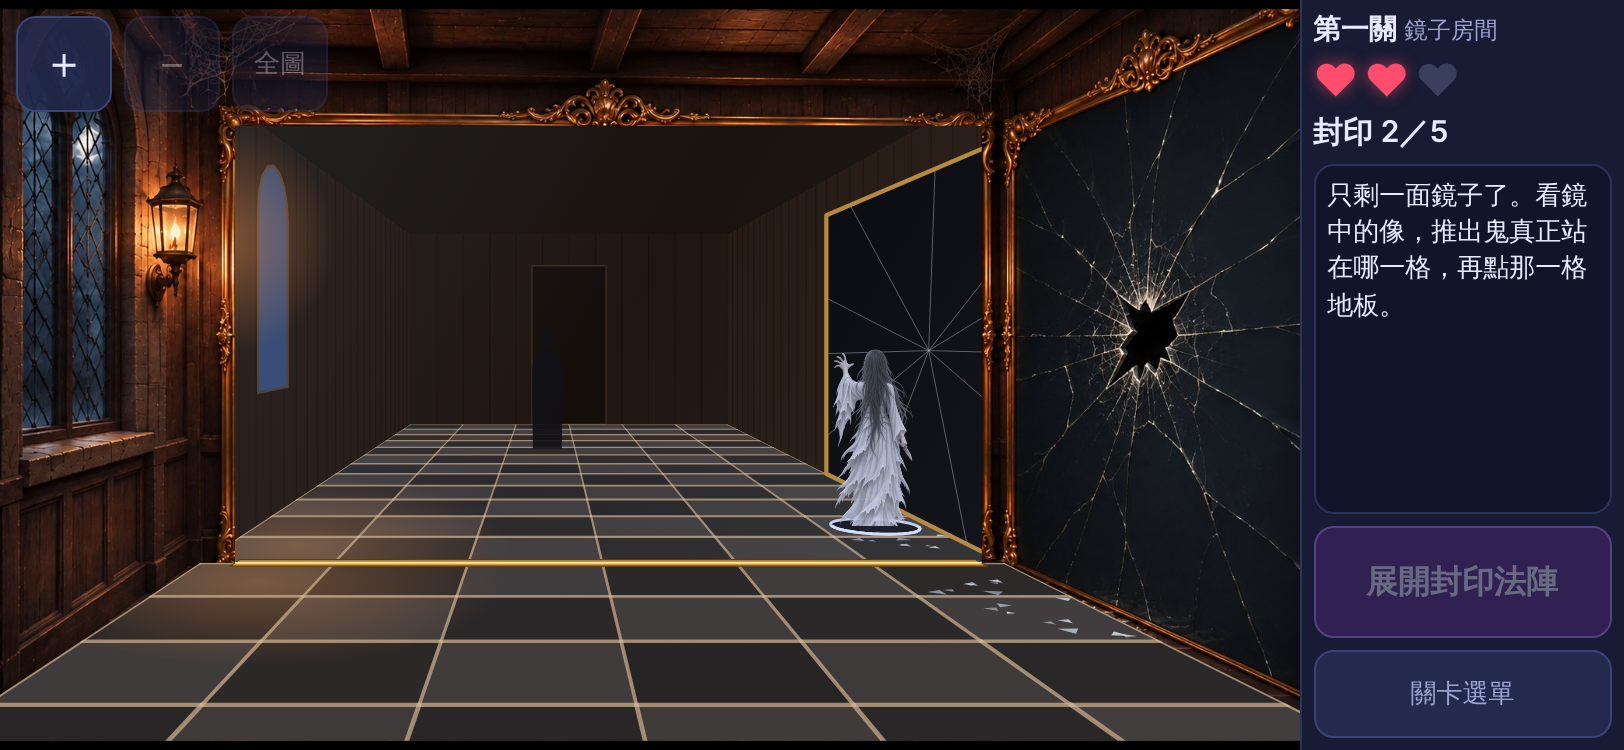
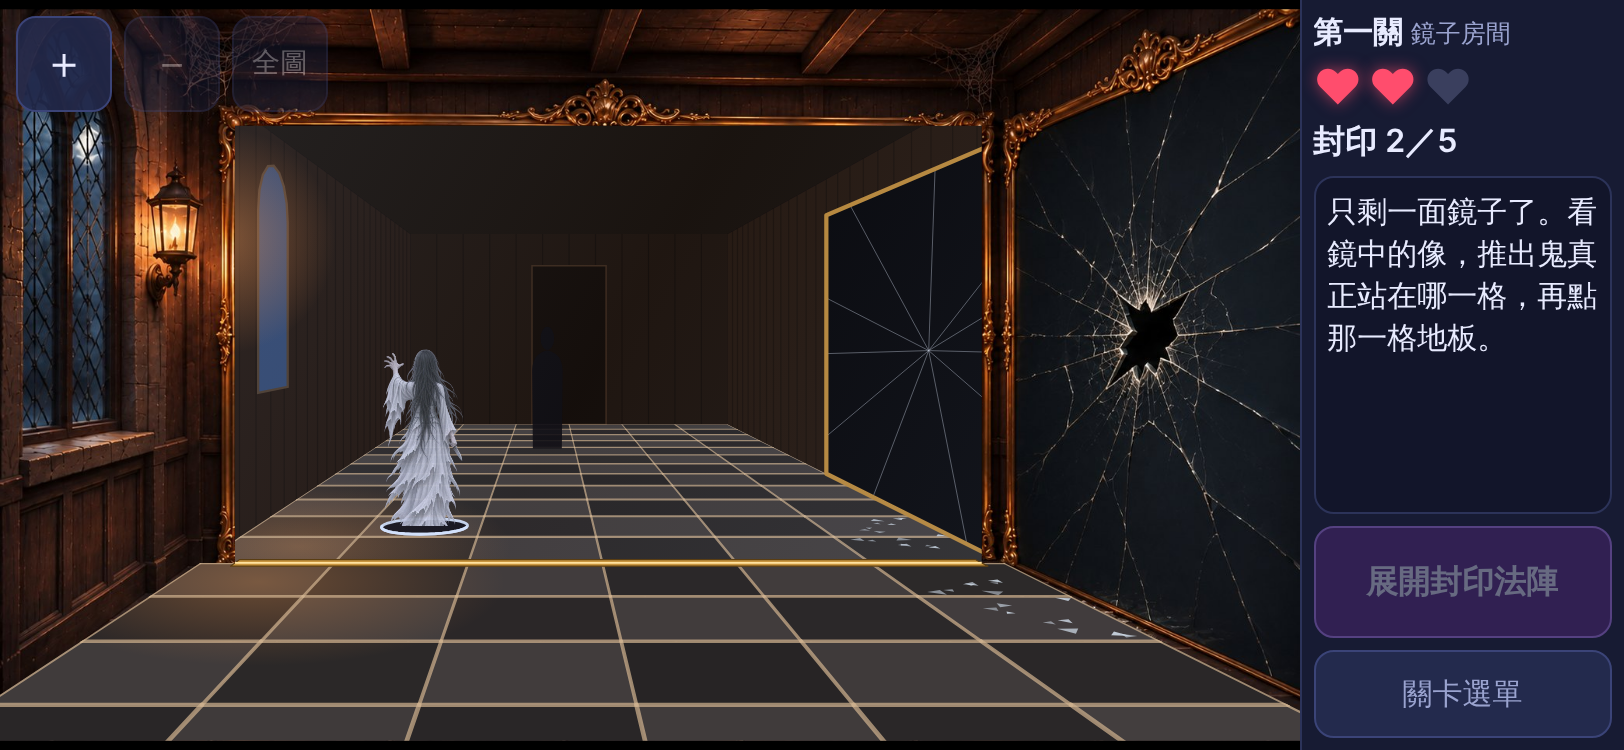
feat: larger text on small screens for the plane-mirror level
Matches the convex/concave standard: 15px status text, 15-16px buttons,
canvas labels at least 12px. Free-mode tools move onto the stage so the
status text always fits.

Claude-Session: https://claude.ai/code/session_01HvGmyTGiFBo42Y4CfnbQZX

diff --git a/prototype/plane-mirror/index.html b/prototype/plane-mirror/index.html
@@ -21,34 +21,40 @@
   #view { position:absolute; inset:0; width:100%; height:100%; display:block; touch-action:none; }
   #side { display:flex; flex-direction:column; gap:8px; min-height:0; padding:8px 8px calc(8px + env(safe-area-inset-bottom));
     padding-right:calc(8px + env(safe-area-inset-right)); background:var(--panel); border-left:1px solid var(--line); }
-  #side h1 { margin:0; font-size:14px; font-weight:600; white-space:nowrap; overflow:hidden; text-overflow:ellipsis; }
+  #side h1 { margin:0; font-size:15px; font-weight:600; white-space:nowrap; overflow:hidden; text-overflow:ellipsis; }
   #side h1 small { color:var(--dim); font-weight:400; }
-  #hud { display:flex; align-items:center; flex-wrap:wrap; gap:4px 10px; font-size:15px; font-weight:600; }
+  #hud { display:flex; align-items:center; flex-wrap:wrap; gap:4px 10px; font-size:16px; font-weight:600; }
   #hearts { display:inline-flex; gap:3px; font-size:26px; line-height:1; color:#ff4d6d; text-shadow:0 0 8px rgba(255,77,109,.6); }
   #hearts .lost { color:#3a3f5e; text-shadow:none; }
   #hud.hit #hearts { animation:hudHit .6s ease-out; }
   @keyframes hudHit { 0%,100% { transform:translateX(0); } 20% { transform:translateX(-5px); } 40% { transform:translateX(5px); } 60% { transform:translateX(-3px); } 80% { transform:translateX(3px); } }
-  #status { flex:1 1 auto; min-height:0; overflow:hidden; padding:8px; font-size:14px; line-height:1.45; background:#12152a; border:1px solid var(--line); border-radius:10px; }
-  select, button, a.btn { font:inherit; color:var(--text); background:#232a4d; border:1px solid #3b4478; border-radius:10px; min-height:48px; padding:4px 10px; font-size:15px; }
+  #status { flex:1 1 auto; min-height:0; overflow:hidden; padding:8px; font-size:15px; line-height:1.4; background:#12152a; border:1px solid var(--line); border-radius:10px; }
+  select, button, a.btn { font:inherit; color:var(--text); background:#232a4d; border:1px solid #3b4478; border-radius:10px; min-height:48px; padding:4px 10px; font-size:16px; }
   button { cursor:pointer; user-select:none; -webkit-user-select:none; touch-action:manipulation; }
   #side button { width:100%; }
   button:active { background:#34407a; }
   button:disabled { opacity:.38; cursor:default; }
   button.on { background:#4a3f12; border-color:var(--accent); color:var(--accent); }
-  button.primary { background:#5b2a86; border-color:#b980ff; font-weight:600; font-size:16px; min-height:56px; }
-  #freeTools { display:flex; flex-direction:column; gap:6px; }
-  #freeTools select { width:100%; min-height:40px; font-size:13px; }
-  #freeTools button { min-height:40px; font-size:13px; }
-  a.btn { display:flex; align-items:center; justify-content:center; min-height:44px; font-size:13px; color:var(--dim); text-decoration:none; }
+  button.primary { background:#5b2a86; border-color:#b980ff; font-weight:600; font-size:17px; min-height:56px; }
+  /* 自由練習（開發用）的工具放在房間畫面的右上角，不佔右側直欄，說明文字才放得下 */
+  #freeTools { position:absolute; right:8px; top:8px; display:flex; gap:6px; }
+  #freeTools select { min-height:44px; max-width:150px; font-size:15px; background:rgba(35,42,77,.92); }
+  #freeTools button { min-height:44px; min-width:64px; font-size:15px; background:rgba(35,42,77,.92); }
+  #freeTools button.on { background:#4a3f12; }
+  a.btn { display:flex; align-items:center; justify-content:center; min-height:44px; font-size:15px; color:var(--dim); text-decoration:none; }
   #zoomBox { position:absolute; left:8px; top:8px; display:flex; gap:6px; }
   #zoomBox button { width:48px; height:48px; min-height:48px; padding:0; font-size:22px; background:rgba(35,42,77,.88); }
-  #zoomBox #zoomFit { font-size:13px; }
-  #debugPanel { position:absolute; left:6px; top:62px; max-width:min(92%, 360px); font:11px/1.45 ui-monospace, Menlo, Consolas, monospace; background:rgba(0,0,0,.72); color:#9dffb0; border:1px solid #2f7a45; border-radius:6px; padding:6px 8px; pointer-events:none; white-space:pre-wrap; }
+  #zoomBox #zoomFit { font-size:14px; }
+  #debugPanel { position:absolute; left:6px; top:62px; max-width:min(92%, 360px); font:12px/1.45 ui-monospace, Menlo, Consolas, monospace; background:rgba(0,0,0,.72); color:#9dffb0; border:1px solid #2f7a45; border-radius:6px; padding:6px 8px; pointer-events:none; white-space:pre-wrap; }
   @media (max-height: 480px) {
     #side { gap:6px; padding:6px 6px calc(6px + env(safe-area-inset-bottom)); }
-    #status { font-size:13px; padding:6px; line-height:1.4; }
-    #hearts { font-size:22px; }
-    a.btn { min-height:44px; }
+    /* 字級對齊凸、凹透鏡：說明文字在橫向手機上也是 15 px，不縮小；按鈕 15 px */
+    #status { padding:6px; }
+    #hearts { font-size:24px; }
+    select, button, a.btn { font-size:15px; }
+    button.primary { font-size:16px; }
+    #freeTools select, #freeTools button { font-size:14px; }
+    #freeTools select { max-width:118px; }
   }
   /* 直向只是開發備援（?portrait=1）：控制欄放到下面 */
   @media (orientation: portrait) {
@@ -68,6 +74,14 @@
       <button id="zoomOut" type="button" aria-label="縮小">－</button>
       <button id="zoomFit" type="button" aria-label="顯示全圖">全圖</button>
     </div>
+    <div id="freeTools" hidden>
+      <select id="phaseSel" aria-label="鏡子數量">
+        <option value="1">兩面鏡</option>
+        <option value="2">一面鏡（右邊打碎）</option>
+      </select>
+      <select id="cellSel" aria-label="鬼的位置"></select>
+      <button id="debugBtn" type="button" aria-pressed="false">Debug</button>
+    </div>
     <div id="debugPanel" hidden></div>
   </main>
   <aside id="side">
@@ -77,14 +91,6 @@
       <span id="sealCount"></span>
     </div>
     <div id="status" role="status" aria-live="polite"></div>
-    <div id="freeTools" hidden>
-      <select id="phaseSel" aria-label="鏡子數量">
-        <option value="1">兩面鏡</option>
-        <option value="2">一面鏡（右邊打碎）</option>
-      </select>
-      <select id="cellSel" aria-label="鬼的位置"></select>
-      <button id="debugBtn" type="button" aria-pressed="false">Debug</button>
-    </div>
     <button id="castBtn" type="button" class="primary" disabled>展開封印法陣</button>
     <button id="nextBtn" type="button" class="primary" hidden>繼續 ➜</button>
     <a id="menuLink" class="btn" href="../index.html">關卡選單</a>

diff --git a/tests/e2e-plane-mirror.js b/tests/e2e-plane-mirror.js
@@ -115,6 +115,26 @@ async function open(profile, browser, query) {
   return { context, page, errors, tapAt, press, info, pixels, cellPt, tapCell, otherCell, shot, catchGhost, castWrong, waitIdle };
 }
 
+
+// 字級（對齊凸、凹透鏡的標準）與「每一句說明都完整顯示」
+async function textChecks(page, label) {
+  const r = await page.evaluate(() => {
+    const m = window.__protoMirror, st = document.getElementById('status'), fs = (sel) => parseFloat(getComputedStyle(document.querySelector(sel)).fontSize);
+    const keep = st.textContent;
+    const samples = Object.keys(m.messages).map((k) => m.messages[k]).concat([
+      '抓到了！（封印 4／5）可是牠正在掙脫法陣……', '又抓到了！（封印 2／5）鬼氣得渾身發抖……', '第 5 次抓到牠了！鬼再也待不住了……', '抓到了！鬼就站在這一格。']);
+    const cut = [];
+    samples.forEach((t) => { st.textContent = t; if (st.scrollHeight > st.clientHeight + 1 || st.scrollWidth > st.clientWidth + 1) cut.push(t); });
+    st.textContent = keep;
+    return { status: fs('#status'), cast: fs('#castBtn'), next: fs('#nextBtn'), menu: fs('#menuLink'), hud: fs('#hud'), title: fs('#title'), zoomFit: fs('#zoomFit'),
+      cut: cut, n: samples.length, box: [st.clientWidth, st.clientHeight] };
+  });
+  ok(r.status >= 15, label + '說明文字 ≥ 15 px', r.status + ' px');
+  ok(r.cast >= 15 && r.next >= 15 && r.menu >= 15, label + '按鈕文字 ≥ 15 px', [r.cast, r.next, r.menu].join(' / '));
+  ok(r.hud >= 16 && r.title >= 15 && r.zoomFit >= 14, label + '命數／標題／縮放鈕文字', [r.hud, r.title, r.zoomFit].join(' / '));
+  ok(r.cut.length === 0, label + '每一句說明都完整顯示（' + r.n + ' 句，說明框 ' + r.box.join('×') + '）', r.cut.join(' ｜ '));
+}
+
 async function levelFlow(profile, browser) {
   console.log('\n===== ' + profile.name + '：關卡流程 =====');
   const t = await open(profile, browser, '');
@@ -278,13 +298,14 @@ async function levelFlow(profile, browser) {
   // ---- 版面 ----
   const lay = await page.evaluate(() => {
     const r = (e) => { const b = e.getBoundingClientRect(); return { x: b.left, y: b.top, w: b.width, h: b.height, r: b.right, b: b.bottom }; };
-    const els = Array.from(document.querySelectorAll('#side button, #side a.btn, #zoomBox button')).filter((e) => e.offsetParent !== null);
+    const els = Array.from(document.querySelectorAll('#side button, #side a.btn, #zoomBox button, #freeTools select, #freeTools button')).filter((e) => e.offsetParent !== null);
     return { vw: innerWidth, vh: innerHeight, sw: document.documentElement.scrollWidth, sh: document.documentElement.scrollHeight,
       items: els.map((e) => Object.assign({ id: e.id }, r(e))), stage: r(document.getElementById('stage')), info: window.__protoMirror.canvasInfo() };
   });
   ok(lay.sw <= lay.vw && lay.sh <= lay.vh, '頁面不捲動');
   ok(lay.items.every((i) => i.x >= 0 && i.y >= 0 && i.r <= lay.vw + 0.5 && i.b <= lay.vh + 0.5), '所有按鈕都在畫面內');
   ok(lay.items.every((i) => i.w >= 44 && i.h >= 44), '所有按鈕至少 44×44', lay.items.map((i) => i.id + ' ' + Math.round(i.w) + '×' + Math.round(i.h)).join(', '));
+  await textChecks(page, '');
   console.log('   房間畫面 ' + Math.round(lay.stage.w) + '×' + Math.round(lay.stage.h) + '，背景圖縮放 ' + lay.info.S.toFixed(3));
   ok(t.errors.length === 0, '沒有 JS 錯誤或載入失敗', t.errors.join(' | '));
   await t.context.close();
@@ -363,6 +384,16 @@ async function freeMode(profile, browser) {
   await press('#debugBtn');
   await page.waitForFunction(() => /鬼本體/.test(document.getElementById('debugPanel').textContent));
   ok(await page.isVisible('#debugPanel') && /鬼本體/.test(await page.textContent('#debugPanel')), 'Debug 面板可開');
+  const lab = await page.evaluate(() => window.__protoMirror.stats.labelCss);
+  ok(lab >= 12, '畫布上的格號在螢幕上 ≥ 12 px', lab.toFixed(1) + ' px');
+  await textChecks(page, '自由練習：');
+  const ft = await page.evaluate(() => {
+    const st = document.getElementById('stage').getBoundingClientRect();
+    return Array.from(document.querySelectorAll('#freeTools select, #freeTools button, #zoomBox button')).map((e) => { const b = e.getBoundingClientRect(); return { id: e.id, w: b.width, h: b.height, inside: b.left >= st.left && b.right <= st.right && b.top >= st.top && b.bottom <= st.bottom, l: b.left, r: b.right }; });
+  });
+  ok(ft.every((i) => i.inside && i.w >= 40 && i.h >= 40), '開發工具與縮放鈕都在房間畫面內、至少 40×40', ft.map((i) => i.id + ' ' + Math.round(i.w) + '×' + Math.round(i.h)).join(', '));
+  const zr = Math.max(...ft.filter((i) => /^zoom/.test(i.id)).map((i) => i.r)), fl = Math.min(...ft.filter((i) => !/^zoom/.test(i.id)).map((i) => i.l));
+  ok(zr < fl, '開發工具沒有蓋到縮放鈕', Math.round(zr) + ' < ' + Math.round(fl));
   await page.selectOption('#phaseSel', '2');
   s = await info();
   ok(s.phase === 2 && s.intact.join() === 'back', '可切到一面鏡');

diff --git a/prototype/plane-mirror/app.js b/prototype/plane-mirror/app.js
@@ -18,6 +18,7 @@
 
   var canvas = $('view'), ctx = canvas.getContext('2d');
   var W = 0, H = 0, DPR = 1, S = 1, OX = 0, OY = 0; // 影像座標 → 畫布：x·S + OX
+  var FS = 1; // 畫布文字的放大倍率：畫布短邊小（手機）時放大 1.25 倍，標準和凸、凹透鏡一致（見 layout）
 
   function loadArt(src) {
     var a = { img: new Image(), ready: false };
@@ -79,6 +80,7 @@
     DPR = Math.min(window.devicePixelRatio || 1, 2.5);
     W = Math.max(1, Math.round(r.width)); H = Math.max(1, Math.round(r.height));
     canvas.width = Math.round(W * DPR); canvas.height = Math.round(H * DPR);
+    FS = Math.min(W, H) < 420 ? 1.25 : 1;
     applyView();
   }
   // 縮放只用按鈕（＋／－／全圖），放大後拖曳平移；不做雙指縮放，避免和點格子打架。
@@ -464,7 +466,10 @@
 
   function drawDebug() {
     ctx.save();
-    ctx.lineWidth = 2; ctx.font = '22px ui-monospace, Menlo, Consolas, monospace'; ctx.textAlign = 'center';
+    // 格號：螢幕上至少 12 px，小螢幕再乘 FS（畫在影像座標裡，所以要除以縮放 S）
+    var labelCss = Math.max(12, 22 * S) * FS, labelPx = labelCss / S;
+    stats.labelCss = labelCss;
+    ctx.lineWidth = 2; ctx.font = Math.round(labelPx) + 'px ui-monospace, Menlo, Consolas, monospace'; ctx.textAlign = 'center';
     ctx.strokeStyle = '#00e5ff';
     ['back', 'right', 'left'].forEach(function (id) { var p = C.projectPoly(cam, WALLS[id]); if (p.length > 2) { path(p); ctx.stroke(); } });
     ctx.strokeStyle = '#ff5fd2';
@@ -473,7 +478,7 @@
       var s = C.project(cam, C.cellCenter(c.col, c.row));
       var inPool = POOLS[state.phase].some(function (p) { return sameCell(p, c); });
       ctx.fillStyle = inPool ? '#9dffb0' : '#6b7a70';
-      ctx.fillText(C.cellId(c.col, c.row), s.x, s.y + 7);
+      ctx.fillText(C.cellId(c.col, c.row), s.x, s.y + labelPx * 0.32);
     });
     if (state.ghost) {
       path(C.projectPoly(cam, C.cellPoly(state.ghost.col, state.ghost.row)));
@@ -558,7 +563,8 @@
     casting: '法陣展開中……',
     wrong: '法陣裡沒有東西……少了一顆心。鬼還躲在原地，再看一次鏡子。',
     wrongFree: '法陣裡沒有東西。鬼還躲在原地，再看一次鏡子。',
-    moved: '鬼掙脫了，換了一個地方躲。'
+    moved: '鬼掙脫了，換了一個地方躲。再從鏡子裡找出牠站在哪一格。',
+    movedOne: '鬼掙脫了，換了一個地方躲。只剩一面鏡子，再找出牠站在哪一格。'
   };
   function setStatus(t) { $('status').textContent = t; }
 
@@ -599,7 +605,7 @@
     if (!FREE && state.sealed >= R.catchesTotal) { showClear(); return; }
     if (!FREE && state.phase === 1 && state.sealed >= R.catchesTwoMirrors) { showBreak(); return; }
     newGhost();
-    setStatus(MSG.moved + (state.phase === 2 ? MSG.startOne : MSG.start));
+    setStatus(state.phase === 2 ? MSG.movedOne : MSG.moved);
     syncUI(); requestRender();
   }
 
@@ -734,7 +740,7 @@
   // 測試／開發用掛鉤（不是學生 UI）
   window.__protoMirror = {
     state: state, stats: stats, room: R, core: C, cam: cam, FREE: FREE, pools: POOLS, selectable: SELECTABLE, GHOST_COLOR: GHOST_COLOR,
-    intactMirrors: intactMirrors, render: render,
+    intactMirrors: intactMirrors, render: render, messages: MSG, setStatus: setStatus,
     scene: function () { return scene ? scene.info() : null; },
     art: function () { return { intact: ART.intact.ready, broken: ART.broken.ready, ghost: ART.ghost.ready && ART.ghostBack.ready }; },
     // 透過某一串鏡子看到的是鬼的正面還是背面（[] = 直接看）

diff --git a/docs/prototype-findings-mirror.md b/docs/prototype-findings-mirror.md
@@ -180,3 +180,45 @@
    - 測試：`ghostSide([])`、`['right']` 是正面，`['back']`、`['back','right']` 是背面。e2e 152/152。
    - 第一次上傳的檔是黑底不透明、人形外有一圈白霧，程式去背後輪廓仍不乾淨。使用者請美工重出**透明背景、沒有光暈**的版本並以同檔名取代（2026-11-17），現在用的是這張，不需要去背。
    - 製作 `prototype/plane-mirror/assets/ghost-back.webp` 的步驟（換圖照做）：左右翻轉；裁切 x=196～888、y=17～1390（切口 y=1390 處裙襬中央在原圖 x=517，翻轉後 x=542，左右各 346 px；高度與切口和正面圖相同）；縮成 353×700 的 webp。
+
+---
+
+## 追加：小螢幕文字放大（2026-11-17，對齊凸、凹透鏡的標準）
+
+另一個工作階段把凸、凹透鏡的小螢幕文字放大了，平面鏡關照同樣的標準調整。只動了 `prototype/plane-mirror/` 與自己的測試、文件；`<head>` 裡全螢幕用的 5 行與 `../shared/fullscreen.js` 保留未動。
+
+### 改了哪些字級
+
+| 項目 | 原本 | 現在（一般） | 現在（橫向手機，高度 ≤ 480） |
+|---|---|---|---|
+| 說明文字 `#status` | 14（手機 13） | 15 | 15（不再縮小） |
+| 一般按鈕、`select` | 15 | 16 | 15 |
+| 主要按鈕（展開封印法陣／繼續） | 16 | 17 | 16 |
+| 「關卡選單」`a.btn` | 13 | 16 | 15 |
+| 命數旁的封印數 `#hud` | 15 | 16 | 16 |
+| 愛心 | 26（手機 22） | 26 | 24 |
+| 標題 | 14 | 15 | 15 |
+| 縮放鈕「全圖」 | 13 | 14 | 14 |
+| 自由練習的選單與 Debug 鈕 | 13 | 15 | 14 |
+| Debug 面板 | 11 | 12 | 12 |
+| 畫布上的格號（Debug 才有） | 影像座標 22 px（手機上約 8.6 px） | 螢幕上至少 12 px | 畫布短邊 < 420 px 時再 ×1.25（`app.js` 的 `FS`）＝ 15 px |
+
+畫布上除了 Debug 的格號以外沒有其他文字。
+
+### 版面跟著改的地方
+
+- **自由練習的工具（鏡子數、鬼的位置、Debug）從右側直欄移到房間畫面的右上角。** 原本它們佔掉直欄一半高度，字放大後說明文字放不下。關卡模式沒有這些工具，不受影響。
+- 右側直欄寬度沒有改（`clamp(150px, 20vw, 240px)`，橫向手機 162 px）。加寬會讓房間畫面變小。
+- 「抓到之後鬼換位置」的說明原本是兩句接在一起（約 56 個字），字放大後在手機上要 7 行、幾乎塞滿。改成一句短的：「鬼掙脫了，換了一個地方躲。再從鏡子裡找出牠站在哪一格。」（單鏡：「……只剩一面鏡子，再找出牠站在哪一格。」）。這是我改的文字，請使用者看。
+
+### 實測（`tests/e2e-plane-mirror.js`，174/174；橫向手機 812×375 觸控＋桌機 1280×800）
+
+- 說明文字 ≥ 15 px、按鈕文字 ≥ 15 px、命數 ≥ 16 px、標題 ≥ 15 px、縮放鈕 ≥ 14 px（讀瀏覽器算出的字級）。
+- **14 句說明（所有固定訊息＋四種抓到的訊息）在說明框裡都完整顯示**，沒有被截掉。橫向手機的說明框：關卡模式 147×167 px、自由練習 147×223 px。
+- 畫布上的格號在螢幕上 ≥ 12 px（手機 15 px）。
+- 所有按鈕都在畫面內、至少 44×44；自由練習的工具與縮放鈕都在房間畫面內、至少 40×40、互不重疊；頁面不捲動。
+
+### 沒有測的
+
+- 實體手機上的實際觀感（字夠不夠大、說明框會不會太擠）。
+- 寬度比 812 px 更窄的橫向螢幕（例如 667×375）：直欄會縮到 150 px，最長的說明可能放不下。沒有測。

diff --git a/PROJECT.md b/PROJECT.md
@@ -223,7 +223,7 @@
 
 - 流程照 CONFIRMED：開場 → 兩面鏡抓 2 次 → 過場（鬼打碎右鏡）→ 一面鏡抓 3 次 → 過關 →【前往第二關】。過場用共用的 `prototype/shared/story-scene.js`。
 - 幾何在 `prototype/shared/mirror-core.js`（相機投影、鏡射、鏡中可見範圍、出題格）；房間與相機參數在 `prototype/plane-mirror/configs.js`（對著 `docs/concepts/Mirror4.png` 量的，換背景圖要重量）。
-- 測試（已併入 `npm test`）：`tests/check-geometry-mirror.js` 342/342、`tests/e2e-plane-mirror.js` 150/150。截圖 `docs/screenshots/mirror-*.png`。
+- 測試（已併入 `npm test`）：`tests/check-geometry-mirror.js` 342/342、`tests/e2e-plane-mirror.js` 174/174。截圖 `docs/screenshots/mirror-*.png`。
 - 2026-11-17 各測試結果：凹透鏡幾何 97/97、凸透鏡幾何 333/333、平面鏡幾何 283/283、凸透鏡 e2e 1494/1494、第二關流程 142/142、第一關 e2e 148/148；凹透鏡 e2e 在 `npm test` 裡通過。
 - **已知的偶發失敗（不是這輪造成的，凸透鏡程式這輪沒動）**：`tests/e2e-convex-lens.js` 的「『下一組配置』不會連續出同一組」有時會失敗（這次第一次跑 1492/1494，序列開頭是 0→0；重跑 1494/1494）。`npm test` 用 `&&` 串接，它一失敗後面的測試就不會跑。還沒修。
 - **第一版已由使用者在電腦上試玩過一次**（線上版），回饋與處理：
@@ -234,6 +234,8 @@
   1. 鏡子底邊的框要粗一點 → 已改成有寬度的金色門檻。
   2. 使用者提供**女鬼的背面圖** `docs/concepts/ghost01-back.png` → **已實作**：鬼面向玩家；直接看（抓到後現身）與右鏡裡是正面，正面鏡裡是背面（背面圖左右翻轉後貼上，舉手的那一側和現身時相同）。判斷寫在 `app.js` 的 `seesBack()`：把鬼的朝向跟著鏡射變換，看視點在人形的哪一側。這解決了 findings 的 ISSUE 6。
      - 第一次上傳的檔是黑底、帶白霧；使用者已請美工重出透明背景、沒有光暈的版本並取代原檔，遊戲用的 `prototype/plane-mirror/assets/ghost-back.webp` 已由新圖重做（步驟見 findings 文末）。
+- **小螢幕文字放大（2026-11-17）**：平面鏡關已照凸、凹透鏡的標準調整（說明 15 px、按鈕 15～16 px、畫布格號最小 12 px，短邊 < 420 px 時 ×1.25）。自由練習的工具移到房間畫面右上角。細節與實測見 findings 文末。`prototype/plane-mirror/index.html` 的 `<head>` 裡全螢幕用的幾行和 `../shared/fullscreen.js` 是另一個工作階段加的，**不要拿掉**。
+- **跑 `npm test` 會重拍所有關卡的截圖**：平面鏡這邊只 commit `docs/screenshots/mirror-*`，其他關卡的截圖用 `git checkout` 還原，免得兩個工作階段一直衝突。
 - 等使用者回覆：PENDING 13 的各項（其中「背景圖要不要重畫」已解決）。
 - 使用者手上有兩段給美工 AI 的提示詞（地磚貼圖、有門那面牆的正面圖），圖到了再換上；目前地板與鏡中的牆都是程式畫的。
 - **拖曳連線由另一台電腦的 Claude 在做**（凸、凹透鏡），這個分支沒有碰那兩個原型。
